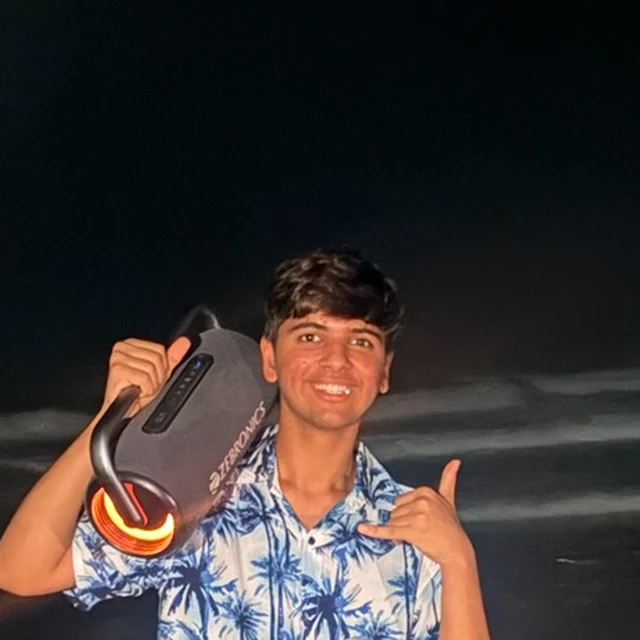
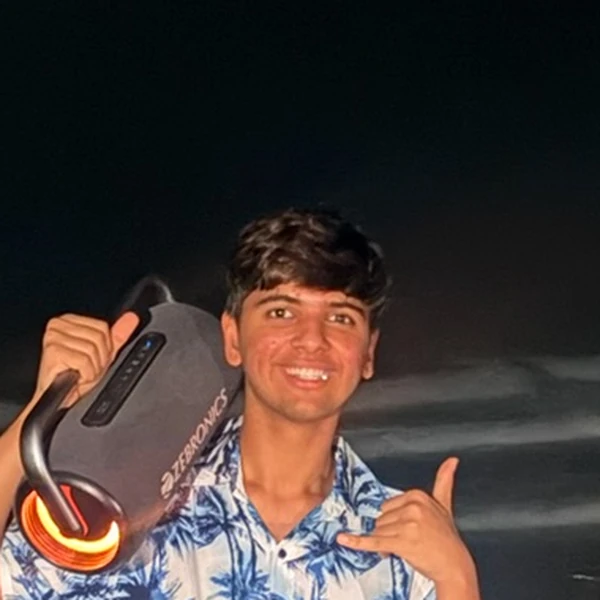
Board: drop tabla (standing rule), tighter face crop for the round photo

diff --git a/src/world/Life.jsx b/src/world/Life.jsx
@@ -119,7 +119,7 @@ export default function Life({ music, onMusic }) {
           </Polaroid>
 
           <div className="item note taped p17" style={{ ['--sc']: '#D9CCFF', ['--r']: '-4deg' }}>
-            108 Surya Namaskars, done.<small>Yoga, and a tabla I keep notes for.</small>
+            108 Surya Namaskars, done.<small>Yoga, for the calm hands.</small>
           </div>
 
           <div className="item ticket pinned p7" style={{ ['--r']: '3deg', ['--pc']: '#E8505B' }}>

diff --git a/src/world/data.js b/src/world/data.js
@@ -185,7 +185,7 @@ export const PROCESS = {
 };
 
 export const OFF_CLOCK = {
-  list1: ['Reading about business', 'Badminton, district level, still playing', 'Tabla, and shooting in the past'],
+  list1: ['Reading about business', 'Badminton, district level, still playing', 'Shooting, in the past'],
   list2: ['Building with Claude Code every day', 'Editing videos in DaVinci Resolve and CapCut', 'Asking "how does that work?" about everything'],
 };
 

diff --git a/HANDOFF.md b/HANDOFF.md
@@ -25,7 +25,7 @@ React, Vite, Tailwind, Framer Motion, React Three Fiber, Lenis, AOS, react-route
 ## Status
 **Painted journey on branch `feat/journey-painted` (cut from `feat/avatar-3d` on 16 Oct 2026, so it stacks on the Work and avatar work).** Laksh asked for the train scenery to be painted with Figma credits. Done: 10 images from Figma's `gemini-3.1-flash-image` (better than the `flash-lite` used for the hero), keyed by `scripts/art/journey.py` into `public/art/journey/` (school, varanasi, hotel, cabin, campus, build, train, wheel, far and mid hill strips mirrored for a seamless tile). `src/world/trainArt.jsx` now draws the nine stations from pictures (reusing `/art/range`, `/art/mu`, `/art/shifts`, `/art/bestow`; they grey out until the train arrives, CSS `.stbuild`), painted hill layers, the painted train (spinning painted wheels behind its skirt, Laksh's avatar in the window, smoke puffs), painted clouds. The window anchor moved: `WIN_Y` is exported from trainArt and used by `Journey.jsx` for the ticket origin. NOT done, because the Figma credits ran out (they reset at 2026-10-17 00:00 UTC, about 05:30 IST): painted ground and rails strip, painted platform strip, trees, foreground grass. Until then the ground is a gradient and the platform a softened vector. Raw sources are in `scripts/art/src/` (gitignored; the Figma links expire after 7 days).
 
-**3D sidekick on branch `feat/avatar-3d` (cut from `feat/work-section` on 16 Oct 2026; Work PR is https://github.com/TheRealLaksh/Portfolio-V2/pull/1).** Laksh chose real 3D (16 Oct 2026). The engine is built and works on a STAND-IN mannequin (`public/avatar/Xbot.glb`, the three.js examples model, originally from Mixamo: licence not verified, replace before launch). Files: `src/world/avatarStage.js` (three.js strip, lazy-loaded), `avatarBrain.js` (behaviour), `avatarLines.js` (what he says), `Sidekick3D.jsx` + `sidekick3d.css` (DOM: hit button, bubble, Zzz, guide menu), `useSection.js`; `Sidekick.jsx` now chooses 3D or the old flat puppet (`Sidekick2D`). Look: toon shading in three flat tones plus an inked outline (inverted hull, 2.4 px), body saffron `0xF5B13D`, joints and outline in the site's ink navy, so he matches the flat illustrated site. Behaviour (third pass, 16 Oct 2026, after Laksh said walking was distracting and he wanted real animations): he does NOT walk or follow the scroll; he holds one spot (bottom left, 120 px; 52 px on phones), pops up from below the screen edge when you leave the hero and waves. The animations are written in code, not clips: `avatarMoves.js` is a move library (wave, point, think, shrug, facepalm, clap, cheer, stretch, yawn, flex, lookAround, flip, spin) that poses named body parts (roles such as `rArm`, `head`, `spine1`, in body-space degrees) over the idle clip; `applyMove` in `avatarStage.js` maps roles to bones by Mixamo-style names (prefix `mixamorig` optional), so the moves should carry over to his own Mixamo-compatible model. Stunts (jump, backflip about his middle, spin, squash and stretch) are physics in `avatarBrain.js`. Triggers: each section's move plays ONCE per visit, after it has held the screen for 1.4 s and never closer than 18 s to another unprompted move (`SECTION_MOVE`: story wave, work point, brand flex, profiley clap, stack stretch, process think, life shrug, notes lookAround, hello cheer), single click waves and opens the menu, double click flips, triple click spins, menu has Do a flip and Surprise me, pointer near him gets a wave, night mode a yawn, daylight a stretch, 20 s idle a yawn then sleep (Zzz, wakes with a hop). Head follows the pointer. Also: guide menu (Work, Contact, Resume, Hire me, flip, surprise, joke), time-of-day / returning-visitor lines, phone version. Tests: `window.__sk = { brain, stage }` in dev; `stage.hold(def, t)` freezes a pose and `stage.step(dt)` drives a frame (stop the loop with `stage.setActive(false)` first), because software WebGL runs at 1 to 13 fps and real-time recordings mislead. Motion quality (tuned after Laksh found shrug, facepalm, clap, flex, cheer, stretch and yawn stiff, wrong-looking and too frequent): moves ease in with overshoot, start with a small anticipation, the head trails the arms (`lag`), and every posed part has a constant small wobble (`WOBBLE` in `avatarStage.js`) so held poses are never frozen; hands for facepalm, think and yawn now cross to the middle of the face (`+z` on the right arm moves the hand inward). Quips are 45 s apart. Dance was offered and Laksh declined it; walking was tried (scroll-linked roaming, run, stride locking) and removed at his request. He is big (27% of the screen height, 170 to 270 px) and sits in front of the nav pill (z-index 61). Hidden in the hero and the journey (he is in those scenes already).
+**Branch `feat/journey-painted` after Laksh's 18 Oct 2026 feedback pass (all pushed, preview only; nothing merged to `main`, he said stop at the branch).** Done: the small sidekick avatar is gone from the code (Sidekick, 3D engine, moves, lines, stand-in model; the hero's own standing avatar and the train-window avatar stay). Journey has eight stops (stop 5 'First portfolio' and its cabin art removed; `journey:` pointers in `data.js` shifted). Music: 'Play some music' now plays the whole of Nicky Youre & dazy 'Sunroof' from `public/audio/sunroof.mp3` (Laksh supplied the file and chose to host it; his call on licensing), preloaded on page mount so it starts at once, loops; the generative piece is the fallback if the file fails. Work popup renders through a portal under `.w-root` (it was clipped by the pinned section and the next section painted over it), locks page scroll while open, and the open box lid no longer covers the heading. Board: Model UN polaroid and Hindi/English note removed, 'Model UN and debate' bullet removed, new real items from the vault (ISRO invite space quiz, 108 Surya Namaskars, badminton district level, DaVinci/CapCut editing). Profile photo: `public/me.webp` (square face crop) and `public/me-full.webp` (board polaroid) are now Laksh's new beach photo everywhere the photo was used; `me-avatar.webp` is the illustrated figure, not a photo. Instagram caption is 'Say hi, my DMs are open.' Whole-branch smoke test (`e2e.mjs`, five viewports) passes except music start time, which varied 117-507 ms in headless runs. Known and left: `/classic` logs a Last.fm 500 on local dev (no API route); ESLint config is broken (`eslint/config` export error), pre-existing.
 
 **Work section pass on branch `feat/work-section` (cut from `feat/world-portfolio` on 16 Oct 2026, pushed; no PR yet).** Done: crate lid/front relabelled, keyboard focus reveals the box, status badges + All / Live sites / Open source filter, popup with Year / Role / Status, previous / next, Copy link, `#work/<id>` deep links, focus trap and alt text, real screenshots for Vaultara and Mercatora. Code is in `src/world/Work.jsx`, `data.js` (`WORK`, `WORK_FILTERS`) and the end of `world3.css`.
 
@@ -45,16 +45,17 @@ A. Valley redesign (branch `feat/world-portfolio`): (0) Laksh to review the moti
 2. Optionally replace `public/og-image.jpg` with a designed 1200x630 image (the current one is a cropped screenshot of the hero).
 
 ## Open questions / waiting on
-- 3D sidekick: Laksh's own model. Plan: make a rigged full-body GLB from his photo (MetaPerson Creator was the candidate: claims one photo to rigged GLB, first avatar free; claims unverified) and drop it in `public/avatar/`, then point `createStage` at it. He asked Claude to do this with Claude in Chrome, but the extension was not connected on 16 Oct 2026; uploading his photo to a third-party site is his call, and any sign-up, captcha or payment step is his to do. The model needs clips named (case-insensitive) `idle`, `walk`, `run`, `agree`, `sad_pose`; missing ones fall back to `idle`. Mixamo clips on a different rig often need retargeting (bone names, rest pose).
 - Work section: Laksh to confirm ShiftsDeal may be shown with its screenshot (long-open), the 'Solo build' roles in `WORK` (marked confirm in `data.js`), and whether to add Third Exit, SAGE, Study companion or Monopoly (client work needs permission). The Mercatora screenshot was taken from a local run with dummy Firebase keys: its hero photo (Unsplash) did not load and the directory list is empty, so retake it with real data if he wants a richer card. Vaultara is the app's real landing page (the dashboard needs a login).
 - Location: the footer (every page, including /hire), `index.html`, the hero and the JSON-LD still say Varanasi while /hire says Delhi NCR: a visible mismatch on the page itself. LinkedIn, Google Business Profile and `/hire` now say Delhi NCR, but `index.html` (title, descriptions, JSON-LD address, noscript), the hero and the footer still say Varanasi. Needs Laksh's decision before changing the site-wide text.
 - Mail forwarding is verified: test mails to work@ and me@ showed "Forwarded" in Cloudflare's activity log on 9 Oct 2026.
 
 ## Decisions not to undo
 - Painted journey (16 Oct 2026): painted art from Figma image models is allowed and wanted for scenery (Laksh: 'use figma credits and generate something really good'); generate on flat magenta and key with `scripts/art/journey.py`; hill strips are mirrored end to end so they tile. Keep the train's wheels as separate rotating sprites behind the skirt; keep the window overlay for the avatar. The remaining generations are listed under Status.
-- 3D sidekick (16 Oct 2026): no walking across the screen and no scroll-following (Laksh found it distracting); life comes from the moves. Keep the flat 2D sidekick as the fallback (no WebGL, load failure); reduced-motion visitors get no moving sidekick at all (as before). three loads only through the dynamic import in `Sidekick3D.jsx`, after idle. The canvas strip is pointer-events none; only the button over him takes clicks. No custom cursor (he is not one). Lines must be true statements about the site, no emoji.
+- Sidekick removed (18 Oct 2026, Laksh: 'remove it completely from the code, will add him later if needed'). Do not bring back a roaming avatar unless he asks; git history before commit 2831160 has the whole engine.
 - Work section (16 Oct 2026): project facts (year, role, status, live, code) come from repo first commits and the vault's project notes only; no invented stats. Cards in the crate stay `aria-hidden` with `tabIndex -1`; the pill list is the keyboard route and focusing it fast-forwards the scroll. The popup footer is sticky and the popup keeps clear of the mobile nav pill.
 - Content rules from Laksh (16 Oct 2026): no scholarship anywhere on the Masters' Union page; ShiftsDeal is "took over a basic first version and built it out", never "80%" or "from scratch", and never mention the database or its plan; tabla is gone everywhere (do not bring it back); shooting is a short past-tense mention only (he has left it); Bestow clients are not named; Solomon Bharat is not shown.
+- Bestow's clients are never named on the site, in this repo or in this file (Laksh, 18 Oct 2026; the repo is public). Git history from 15 Oct still has one client mention in an old `data.js` commit (`git log -S` finds it); rewriting history needs his say-so.
+- Music file: only the track Laksh supplied is hosted; he accepted the licensing risk. Tabla stays out of the copy (16 Oct rule), including the board.
 - Hero art is painted (`public/art`). Do not regenerate or replace it without asking: it cost Figma credits. The old SVG valley still exists behind `PAINTED = false` in `Hero.jsx`.
 - No custom cursor (Laksh asked for it to go, 16 Oct 2026). Keep the native pointer.
 - The hero avatar must stand on the ghat steps above the river line (feet at scene y about 640), never in the water.
@@ -67,6 +68,7 @@ A. Valley redesign (branch `feat/world-portfolio`): (0) Laksh to review the moti
 - Laksh chose small commits, pushed after each (every push to `main` goes live on Vercel). Session of 8 Oct 2026.
 
 ## Session log (newest first)
+- 2026-10-18 (feedback pass): removed the sidekick, removed journey stop 5, replaced the Spotify embed with a preloaded full-length local track, fixed the Work popup (portal, scroll lock, lid over heading; first version crashed the page because `portalTo` was missing, caught by the browser test), rebuilt the board with real items, new profile photo everywhere, Instagram caption, scrubbed a client name from HANDOFF. Smoke test over 1440, 1280, 1024, 768 and 390 px: no errors, no horizontal overflow, popup full-screen and locked, music plays.
 - 2026-10-18 (hero stars): Laksh said a lot of stars were moving in the hero. The culprits were 14 white four-point sparkles (`GLINTS` in `Painted.jsx`, `glintA` in `motion.css`) all popping every 3.4 s over the water and steps. Now 4 sparkles, one every 9 s, dimmer (peak opacity .7, scale .8). Checked in the dev server: 4 `.glint` elements, 9 s duration. The shooting stars (two, every 11 s and 17 s, night only) and the static painted sky stars are unchanged.
 - 2026-10-16 (painted journey): generated 10 images with Figma credits (gemini-3.1-flash-image) for the train scenery: 6 new stations, the train, a wheel, far and mid hill strips; keyed to public/art/journey with scripts/art/journey.py. trainArt.jsx now uses them (stations grey until the train arrives, painted hills, painted train with rotating painted wheels and the avatar window, painted clouds); Journey.jsx takes its window anchor from WIN_Y. Checked in headless Chromium at three scroll points (day, dusk, night): no errors, ticket card and passport strip intact. Figma credits ran out before the ground, platform, trees and foreground grass, so those four are pending (reset 17 Oct 00:00 UTC); ground is a gradient and the platform a softened vector meanwhile.
 - 2026-10-16 (3D sidekick, tuning): Laksh named shrug, facepalm, clap, flex, cheer, stretch and yawn as too frequent, stiff and wrong-looking. Moves now ease in with overshoot, start with a small anticipation, the head trails the arms, and a constant wobble keeps held poses alive; facepalm, think and yawn hands now cross to the face (the right arm needed +z); section moves play once per visit, 1.4 s after settling and 18 s apart; quips every 45 s. Checked with stepped frames at 30 fps: facepalm covers the face, clap brings the hands together, flex is a double bicep, cheer jumps with arms up, stretch goes overhead, yawn covers the mouth with the head back. Build passes.
@@ -136,12 +138,13 @@ A. Valley redesign (branch `feat/world-portfolio`): (0) Laksh to review the moti
 <!-- handoff:auto:start -->
 ## Auto: repo state
 
-_Refreshed 18 Oct 2026, 12:44 am IST by `scripts/handoff.mjs` (runs on every commit). Don't edit inside this block._
+_Refreshed 18 Oct 2026, 12:46 am IST by `scripts/handoff.mjs` (runs on every commit). Don't edit inside this block._
 
 Branch: `feat/journey-painted` · remote: https://github.com/TheRealLaksh/Portfolio-V2.git
 
 ### Last 15 commits
 
+- `9a9a613` 2026-10-18 00:44 Work popup: lock native page scroll while open (wheel no longer scrolls the page behind it)
 - `b92121e` 2026-10-18 00:40 Photo: tighter face crop for the round avatars, cropped board polaroid
 - `043356f` 2026-10-18 00:39 Work: keep the open box lid from covering the heading (heading above, box lower and smaller)
 - `74364d7` 2026-10-18 00:35 Work: define portalTo (popup crashed the page) and force the deep-link scroll while scroll is locked
@@ -156,11 +159,13 @@ Branch: `feat/journey-painted` · remote: https://github.com/TheRealLaksh/Portfo
 - `35d3a9e` 2026-10-16 11:44 Sidekick: held-pose wobble, section moves once per visit, calmer quips
 - `7b45d7a` 2026-10-16 11:44 Sidekick moves: overshoot, anticipation, follow-through, corrected hand placement
 - `88c4e74` 2026-10-16 11:20 Sidekick: click combos, flip and surprise menu items, room for flips
-- `58dfdb9` 2026-10-16 11:20 Sidekick: pose engine, stunts and pop-up entrance; no more walking across the screen
 
 ### Uncommitted changes at refresh time
 
 ```
-M  src/world/Work.jsx
+M HANDOFF.md
+M  public/me.webp
+M  src/world/Life.jsx
+M  src/world/data.js
 ```
 <!-- handoff:auto:end -->
